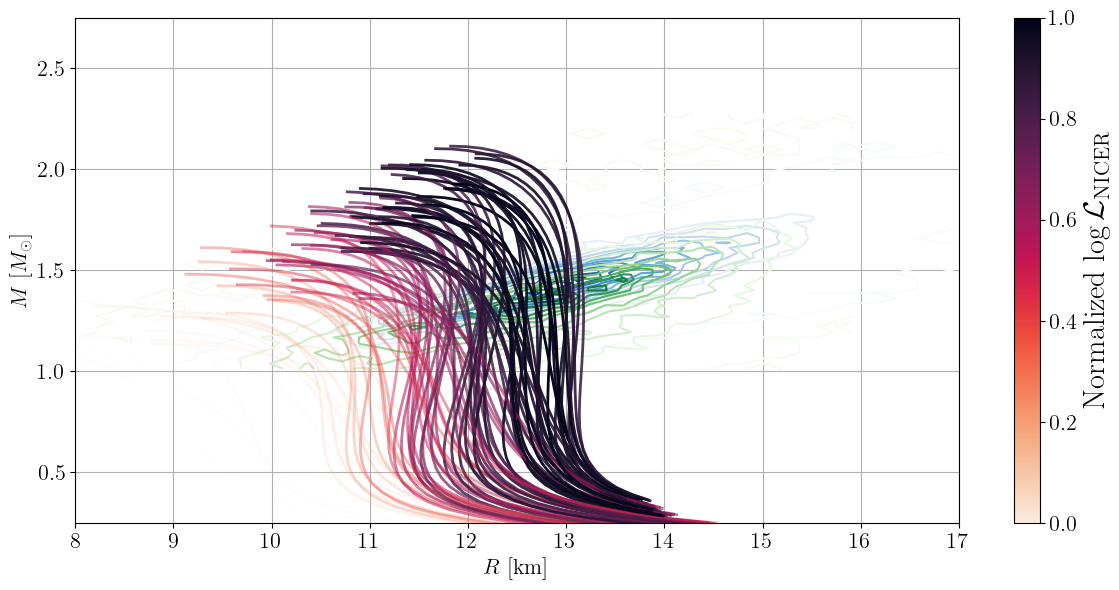
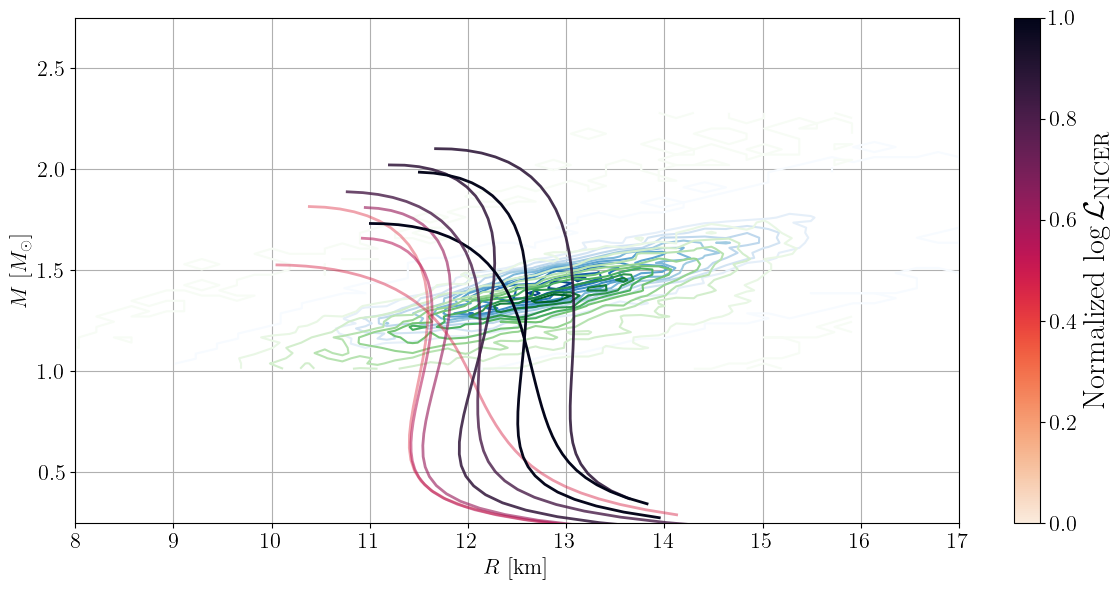
Cleaning up a bit more

Changed region(s): [[0.1823, 0.2441, 0.6381, 0.8847]]

diff --git a/NICER/playground_NICER.py b/NICER/playground_NICER.py
@@ -9,7 +9,6 @@ Playground for NICER inference: we sample some individual parameters, then solve
 import os
 import tqdm
 import time
-import copy
 import numpy as np
 np.random.seed(43) # for reproducibility
 import matplotlib.pyplot as plt
@@ -24,10 +23,6 @@ from jaxtyping import Array, Float
 jax.config.update("jax_enable_x64", True)
 jax.config.update("jax_platform_name", "cpu")
 
-from joseTOV.eos import MetaModel_with_CSE_EOS_model, construct_family
-from joseTOV import utils
-
-from jimgw.base import LikelihoodBase
 from jimgw.prior import UniformPrior, CombinePrior
 
 import utils as NICER_utils
@@ -134,135 +129,26 @@ sampled_param_names = prior.parameter_names
 ### LIKELIHOOD ###
 ##################
 
-class NICERLikelihood():
-    
-    def __init__(self,
-                 sampled_NEP_param_names: list[str],
-                 # metamodel kwargs:
-                 nmin_nsat: float = 0.1, # TODO: check this value? Spikes?
-                 nbreak_nsat: float = NBREAK_NSAT,
-                 ndat_metamodel: int = 100,
-                 # CSE kwargs
-                 nmax_nsat: float = 15,
-                 nb_CSE: int = 7,
-                 fixed_CSE_grid: bool = True,
-                 # TOV kwargs
-                 min_nsat_TOV: float = 1.0,
-                 ndat_TOV: int = 50,
-                 ndat_CSE: int = 50,
-                 # likelihood calculation kwargs
-                 delta_m: float = 0.02,
-                 ):
-        
-        self.delta_m = delta_m
-        self.nmin_nsat = nmin_nsat
-        self.nbreak_nsat = nbreak_nsat
-        self.ndat_metamodel = ndat_metamodel
-        self.nmax_nsat = nmax_nsat
-        self.nb_CSE = nb_CSE
-        self.fixed_CSE_grid = fixed_CSE_grid
-        self.min_nsat_TOV = min_nsat_TOV
-        self.ndat_TOV = ndat_TOV
-        self.ndat_CSE = ndat_CSE
-        
-        # Remove those NEPs from the fixed values that we sample over
-        self.fixed_NEP = copy.deepcopy(NICER_utils.NEP_CONSTANTS_DICT)
-        for name in sampled_NEP_param_names:
-            if name in list(self.fixed_NEP.keys()):
-                self.fixed_NEP.pop(name)
-            
-        # Construct a jitted lambda function for solving the TOV equations
-        construct_family_lambda = lambda x: construct_family(x, ndat = self.ndat_TOV, min_nsat = self.min_nsat_TOV)
-        self.construct_family_jit = jax.jit(construct_family_lambda)
-                
-        # TODO: add some tests to check if nb_CSE matches
-        
-        # TODO: remove me, this is for initial testing/exploration + might not work when jitted
-        self.counter = 0
-    
-    def evaluate(self, params: dict[str, Float], data: dict) -> Float:
-        
-        params.update(self.fixed_NEP)
-        
-        # Metamodel part
-        NEP = {key: value for key, value in params.items() if "_sat" in key or "_sym" in key}
-        
-        ngrids = jnp.array([params[f"n_CSE_{i}"] for i in range(self.nb_CSE)])
-        cs2grids = jnp.array([params[f"cs2_CSE_{i}"] for i in range(self.nb_CSE)])
-        
-        # Create the EOS
-        eos = MetaModel_with_CSE_EOS_model(
-                    NEP,
-                    self.nbreak_nsat,
-                    ngrids,
-                    cs2grids,
-                    nmin_nsat=self.nmin_nsat,
-                    nmax_nsat=self.nmax_nsat,
-                    ndat_metamodel=self.ndat_metamodel,
-                    ndat_CSE=self.ndat_CSE,
-                )
-        
-        # TODO: might want to check for "good indices" here?
-        
-        eos_tuple = (
-            eos.n,
-            eos.p,
-            eos.h,
-            eos.e,
-            eos.dloge_dlogp
-        )
-        
-        # Solve the TOV equations
-        _, masses_EOS, radii_EOS, _ = self.construct_family_jit(eos_tuple)
-        M_TOV = np.max(masses_EOS)
-        
-        # Create a grid of masses for the likelihood calculation
-        m_array = np.arange(0, M_TOV, self.delta_m)
-        r_array = np.interp(m_array, masses_EOS, radii_EOS)
-        
-        # Evaluate for Maryland
-        mr_grid = jnp.vstack([m_array, r_array])
-        logy_maryland = NICER_utils.maryland_posterior.logpdf(mr_grid)
-        logL_maryland = logsumexp(logy_maryland) - np.log(len(logy_maryland))
-        
-        # Evaluate for Amsterdam
-        logy_amsterdam = NICER_utils.amsterdam_posterior.logpdf(mr_grid)
-        logL_amsterdam = logsumexp(logy_amsterdam) - np.log(len(logy_amsterdam))
-        
-        L_maryland = np.exp(logL_maryland)
-        L_amsterdam = np.exp(logL_amsterdam)
-        L = 1/2 * (L_maryland + L_amsterdam)
-        
-        # TODO: for initial testing, save data
-        
-        if np.isnan(L) or np.isnan(masses_EOS).any() or np.isnan(radii_EOS).any():
-            print(f"WARNING: {self.counter} has NaNs")
-        
-        np.savez(f"./data/{self.counter}.npz", masses_EOS = masses_EOS, radii_EOS = radii_EOS, logy_maryland = logy_maryland, logy_amsterdam = logy_amsterdam, L=L)
-        self.counter += 1
-        
-        return L
-
-likelihood = NICERLikelihood(sampled_param_names)
+likelihood = NICER_utils.NICERLikelihood(sampled_param_names, NBREAK_NSAT)
 
 ##############
 ### Sample ###
 ##############
 
-N = 100
+N = 10
 
-# jax_key = jax.random.PRNGKey(42)
+jax_key = jax.random.PRNGKey(42)
 
-# for i in tqdm.tqdm(range(N)):
+for i in tqdm.tqdm(range(N)):
     
-#     jax_key, jax_subkey = jax.random.split(jax_key)
+    jax_key, jax_subkey = jax.random.split(jax_key)
     
-#     params = prior.sample(jax_subkey, 1)
-#     for key, value in params.items():
-#         if isinstance(value, jnp.ndarray):
-#             params[key] = value.at[0].get()
+    params = prior.sample(jax_subkey, 1)
+    for key, value in params.items():
+        if isinstance(value, jnp.ndarray):
+            params[key] = value.at[0].get()
     
-#     L = likelihood.evaluate(params, None)
+    L = likelihood.evaluate(params, None)
     
 # ##############
 # ### CORNER ###

diff --git a/NICER/utils.py b/NICER/utils.py
@@ -5,6 +5,11 @@ from jax.scipy.special import logsumexp
 from jaxtyping import Array, Float
 from jax.scipy.stats import gaussian_kde
 import pandas as pd
+import copy
+
+from joseTOV.eos import MetaModel_with_CSE_EOS_model, construct_family
+from joseTOV import utils
+from jimgw.base import LikelihoodBase
 
 # Taken from emulators paper Ingo and Rahul
 NEP_CONSTANTS_DICT = {
@@ -83,3 +88,117 @@ maryland_posterior = gaussian_kde(maryland_data_2d, weights = maryland_samples["
 
 amsterdam_data_2d = jnp.array([amsterdam_samples["M"].values, amsterdam_samples["R"].values])
 amsterdam_posterior = gaussian_kde(amsterdam_data_2d, weights = amsterdam_samples["weight"].values)
+
+
+###
+### LIKELIHOOD ###
+###
+
+class NICERLikelihood(LikelihoodBase):
+    
+    def __init__(self,
+                 sampled_NEP_param_names: list[str],
+                 nbreak_nsat: float,
+                 # metamodel kwargs:
+                 nmin_nsat: float = 0.1, # TODO: check this value? Spikes?
+                 ndat_metamodel: int = 100,
+                 # CSE kwargs
+                 nmax_nsat: float = 15,
+                 nb_CSE: int = 7,
+                 fixed_CSE_grid: bool = True,
+                 # TOV kwargs
+                 min_nsat_TOV: float = 1.0,
+                 ndat_TOV: int = 50,
+                 ndat_CSE: int = 50,
+                 # likelihood calculation kwargs
+                 delta_m: float = 0.02,
+                 ):
+        
+        self.delta_m = delta_m
+        self.nmin_nsat = nmin_nsat
+        self.nbreak_nsat = nbreak_nsat
+        self.ndat_metamodel = ndat_metamodel
+        self.nmax_nsat = nmax_nsat
+        self.nb_CSE = nb_CSE
+        self.fixed_CSE_grid = fixed_CSE_grid
+        self.min_nsat_TOV = min_nsat_TOV
+        self.ndat_TOV = ndat_TOV
+        self.ndat_CSE = ndat_CSE
+        
+        # Remove those NEPs from the fixed values that we sample over
+        self.fixed_NEP = copy.deepcopy(NEP_CONSTANTS_DICT)
+        for name in sampled_NEP_param_names:
+            if name in list(self.fixed_NEP.keys()):
+                self.fixed_NEP.pop(name)
+            
+        # Construct a jitted lambda function for solving the TOV equations
+        construct_family_lambda = lambda x: construct_family(x, ndat = self.ndat_TOV, min_nsat = self.min_nsat_TOV)
+        self.construct_family_jit = jax.jit(construct_family_lambda)
+                
+        # TODO: add some tests to check if nb_CSE matches
+        
+        # TODO: remove me, this is for initial testing/exploration + might not work when jitted
+        self.counter = 0
+    
+    def evaluate(self, params: dict[str, Float], data: dict) -> Float:
+        
+        params.update(self.fixed_NEP)
+        
+        # Metamodel part
+        NEP = {key: value for key, value in params.items() if "_sat" in key or "_sym" in key}
+        
+        ngrids = jnp.array([params[f"n_CSE_{i}"] for i in range(self.nb_CSE)])
+        cs2grids = jnp.array([params[f"cs2_CSE_{i}"] for i in range(self.nb_CSE)])
+        
+        # Create the EOS
+        eos = MetaModel_with_CSE_EOS_model(
+                    NEP,
+                    self.nbreak_nsat,
+                    ngrids,
+                    cs2grids,
+                    nmin_nsat=self.nmin_nsat,
+                    nmax_nsat=self.nmax_nsat,
+                    ndat_metamodel=self.ndat_metamodel,
+                    ndat_CSE=self.ndat_CSE,
+                )
+        
+        # TODO: might want to check for "good indices" here?
+        
+        eos_tuple = (
+            eos.n,
+            eos.p,
+            eos.h,
+            eos.e,
+            eos.dloge_dlogp
+        )
+        
+        # Solve the TOV equations
+        _, masses_EOS, radii_EOS, _ = self.construct_family_jit(eos_tuple)
+        M_TOV = np.max(masses_EOS)
+        
+        # Create a grid of masses for the likelihood calculation
+        m_array = np.arange(0, M_TOV, self.delta_m)
+        r_array = np.interp(m_array, masses_EOS, radii_EOS)
+        
+        # Evaluate for Maryland
+        mr_grid = jnp.vstack([m_array, r_array])
+        logy_maryland = maryland_posterior.logpdf(mr_grid)
+        logL_maryland = logsumexp(logy_maryland) - np.log(len(logy_maryland))
+        
+        # Evaluate for Amsterdam
+        logy_amsterdam = amsterdam_posterior.logpdf(mr_grid)
+        logL_amsterdam = logsumexp(logy_amsterdam) - np.log(len(logy_amsterdam))
+        
+        L_maryland = np.exp(logL_maryland)
+        L_amsterdam = np.exp(logL_amsterdam)
+        L = 1/2 * (L_maryland + L_amsterdam)
+        
+        # TODO: for initial testing, save data
+        
+        if np.isnan(L) or np.isnan(masses_EOS).any() or np.isnan(radii_EOS).any():
+            print(f"WARNING: {self.counter} has NaNs")
+        
+        np.savez(f"./data/{self.counter}.npz", masses_EOS = masses_EOS, radii_EOS = radii_EOS, logy_maryland = logy_maryland, logy_amsterdam = logy_amsterdam, L=L)
+        self.counter += 1
+        
+        return L
